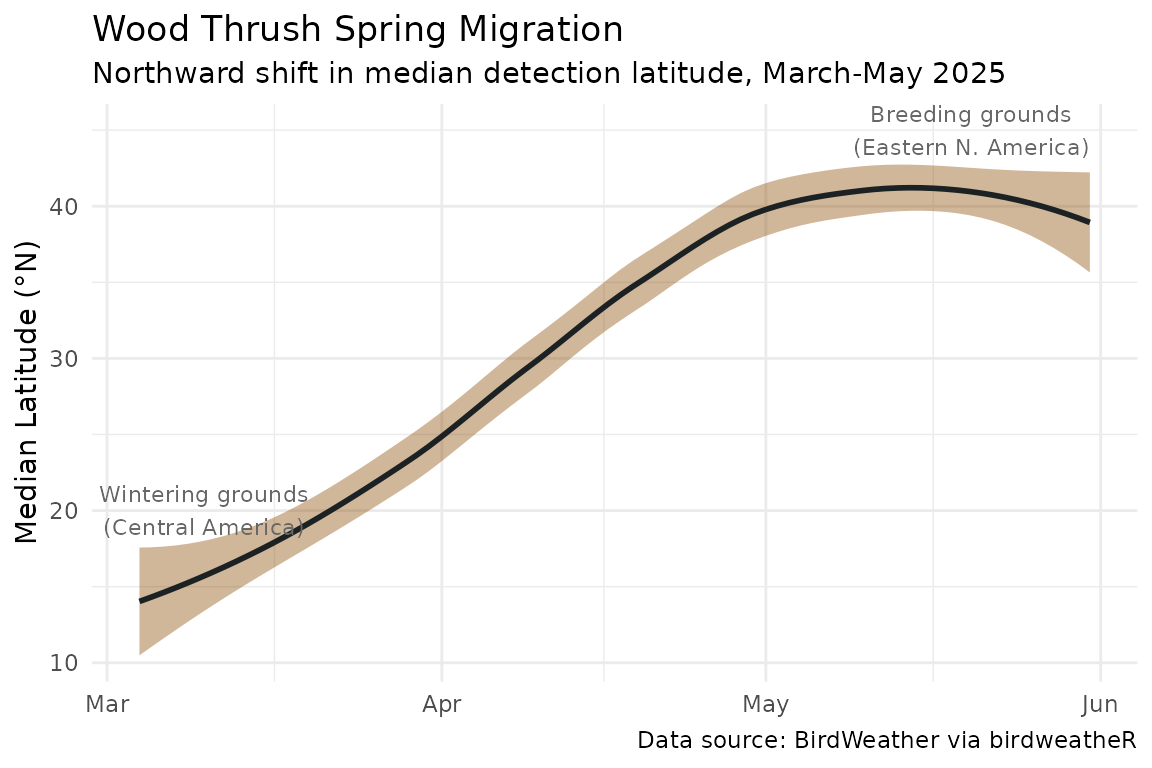
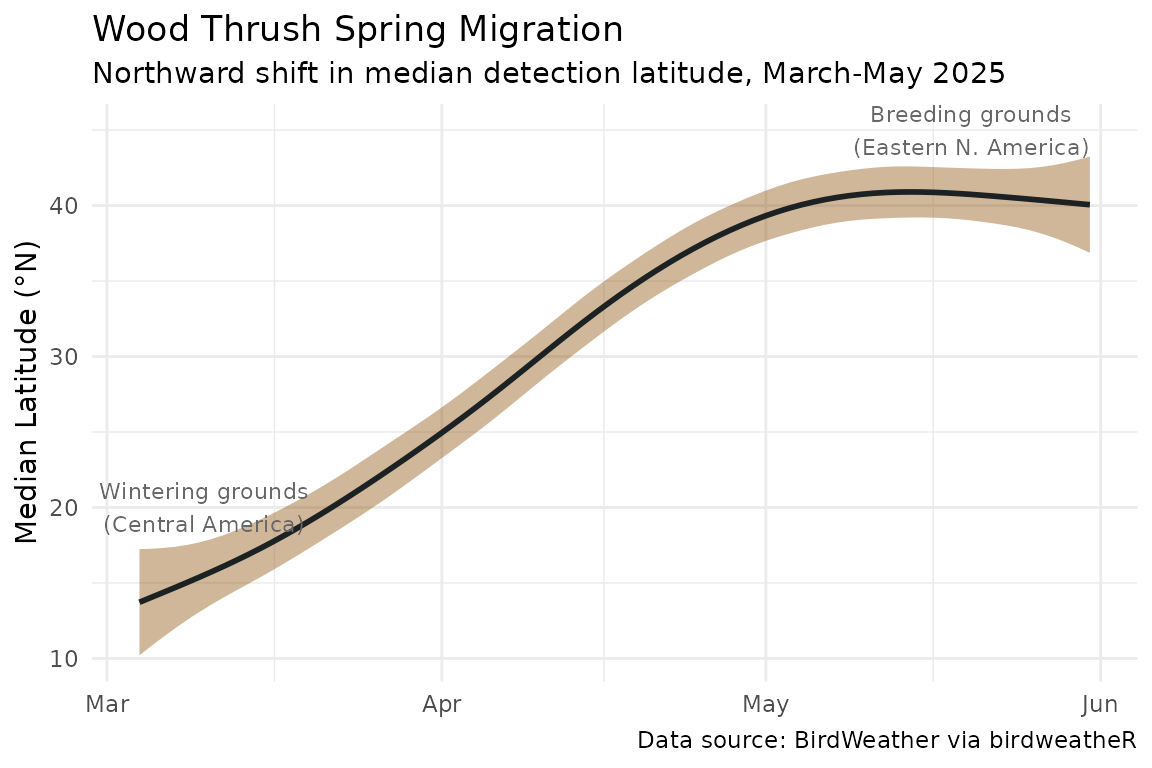
Deploying to gh-pages from @ BrentPease1/birdweatheR@1bfb05822deef02d9cab84b7081927ab34a6bb6e 🚀

diff --git a/articles/getting-started.html b/articles/getting-started.html
@@ -464,7 +464,7 @@ early March to over 40°N by mid-May:</p>
 <span>                   by <span class="op">=</span> <span class="va">date</span><span class="op">]</span></span>
 <span></span>
 <span><span class="fu"><a href="https://ggplot2.tidyverse.org/reference/ggplot.html" class="external-link">ggplot</a></span><span class="op">(</span><span class="va">median_lat</span>, <span class="fu"><a href="https://ggplot2.tidyverse.org/reference/aes.html" class="external-link">aes</a></span><span class="op">(</span>x <span class="op">=</span> <span class="va">date</span>, y <span class="op">=</span> <span class="va">median_lat</span><span class="op">)</span><span class="op">)</span> <span class="op">+</span></span>
-<span>  <span class="fu"><a href="https://ggplot2.tidyverse.org/reference/geom_smooth.html" class="external-link">geom_smooth</a></span><span class="op">(</span>color <span class="op">=</span> <span class="st">"#1C2223"</span>, fill <span class="op">=</span> <span class="st">"#8D4C00"</span><span class="op">)</span> <span class="op">+</span></span>
+<span>  <span class="fu"><a href="https://ggplot2.tidyverse.org/reference/geom_smooth.html" class="external-link">geom_smooth</a></span><span class="op">(</span>method <span class="op">=</span> <span class="st">"gam"</span>, color <span class="op">=</span> <span class="st">"#1C2223"</span>, fill <span class="op">=</span> <span class="st">"#8D4C00"</span><span class="op">)</span> <span class="op">+</span></span>
 <span>  <span class="fu"><a href="https://ggplot2.tidyverse.org/reference/annotate.html" class="external-link">annotate</a></span><span class="op">(</span><span class="st">"text"</span>,</span>
 <span>           x     <span class="op">=</span> <span class="fu"><a href="https://rdrr.io/r/base/as.Date.html" class="external-link">as.Date</a></span><span class="op">(</span><span class="st">"2025-03-10"</span><span class="op">)</span>,</span>
 <span>           y     <span class="op">=</span> <span class="fl">20</span>,</span>

diff --git a/articles/getting-started.md b/articles/getting-started.md
@@ -376,7 +376,7 @@ median_lat <- woth[, .(median_lat = median(station_lat, na.rm = TRUE)),
                    by = date]
 
 ggplot(median_lat, aes(x = date, y = median_lat)) +
-  geom_smooth(color = "#1C2223", fill = "#8D4C00") +
+  geom_smooth(method = "gam", color = "#1C2223", fill = "#8D4C00") +
   annotate("text",
            x     = as.Date("2025-03-10"),
            y     = 20,
